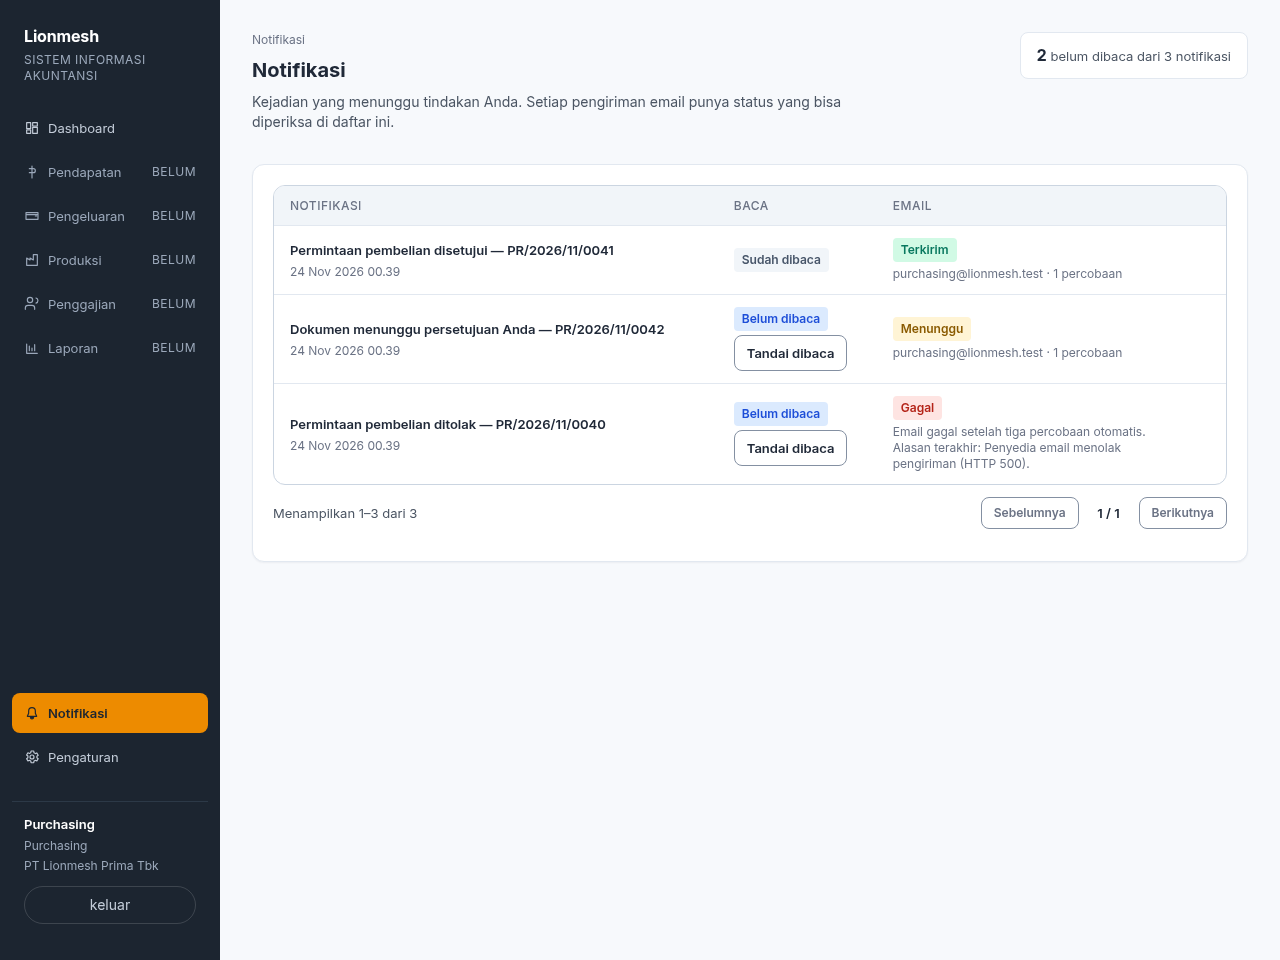
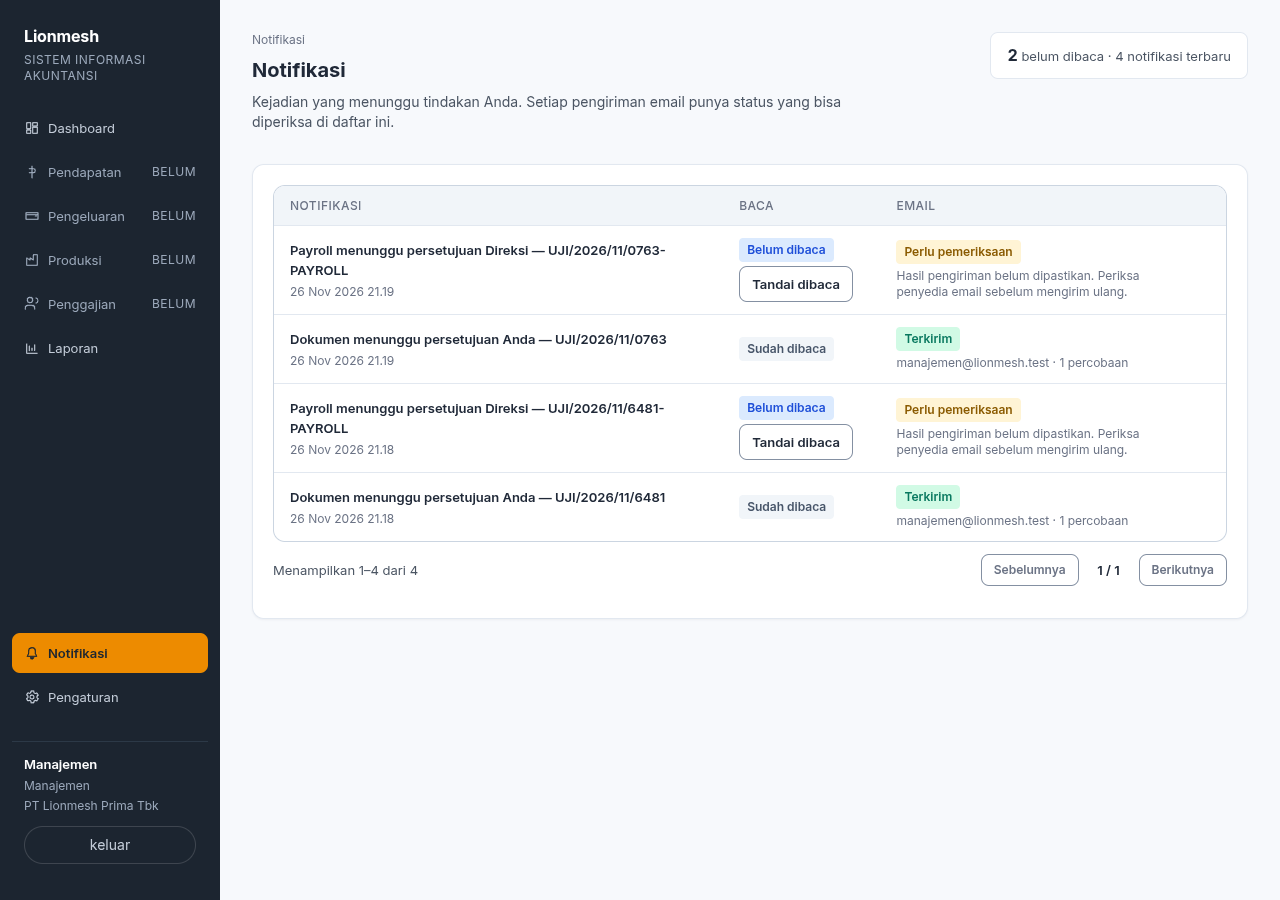
feat: close C-012 gaps and refresh evidence
Consolidate formatWaktu into shared formatTanggalWaktu, re-verify 11/11 with D-66 behavior, fresh 1280px inbox screenshot, contract Verified.

diff --git a/src/app/(app)/notifikasi/components/daftar-notifikasi.tsx b/src/app/(app)/notifikasi/components/daftar-notifikasi.tsx
@@ -11,7 +11,7 @@ import {
   type StatusOption,
 } from "@/components/ui";
 import type { Notifikasi } from "@/core/notifikasi";
-import { formatWaktu } from "@/lib/format/date";
+import { formatTanggalWaktu } from "@/lib/format/date";
 
 import { tandaiDibacaAction } from "../actions";
 import styles from "../notifikasi.module.css";
@@ -47,7 +47,7 @@ export function DaftarNotifikasi({ errorMessage, rows }: DaftarNotifikasiProps) 
         render: (row) => (
           <span className={styles.cellStack}>
             <span className={styles.cellTitle}>{row.judul}</span>
-            <span className={styles.cellMeta}>{formatWaktu(row.created_at)}</span>
+            <span className={styles.cellMeta}>{formatTanggalWaktu(row.created_at)}</span>
           </span>
         ),
       },

diff --git a/src/lib/format/date.test.ts b/src/lib/format/date.test.ts
@@ -13,4 +13,5 @@ test("tanggal dan waktu tampil dalam Asia/Jakarta", () => {
 
 test("tanggal tidak valid ditandai, bukan dikarang", () => {
   assert.equal(formatTanggal("bukan-tanggal"), "—");
+  assert.equal(formatTanggalWaktu(""), "—");
 });

diff --git a/docs/product/items/C-012-notifikasi/05-evidence.md b/docs/product/items/C-012-notifikasi/05-evidence.md
@@ -1,29 +1,30 @@
 # C-012 — Bukti Verifikasi
 
-Implementasi 2026-11-24 pada branch `c-012-notifikasi` oleh core track (owner item: tech lead). Semua verifikasi dijalankan terhadap Supabase lokal (Docker) dan dev server Next.js 16.
+Implementasi 2026-11-24 pada branch `c-012-notifikasi` oleh core track (owner item: tech lead). Semua verifikasi dijalankan terhadap Supabase lokal (Docker) dan dev server Next.js 16. Putaran akhir 2026-11-26: rebase ke main (C-009/C-011/C-013/C-014), konsolidasi `formatWaktu` → `formatTanggalWaktu` bersama, dan verifikasi ulang penuh.
 
-Status item: **`in progress`**. AC-10 baru terbukti pada batas notifikasi; rute dokumen tujuan belum diuji. Penanganan hasil pengiriman yang tidak pasti masih perlu diperbaiki sebelum siap review.
+Status item: **SIAP REVIEW** — AC-01–AC-10 PASS. AC-10 terbukti pada batas notifikasi (rute dokumen tujuan belum ada, dicatat di bawah). Aturan hasil-tidak-pasti (`D-66`) terbukti lewat skrip worker + skrip bukti.
 
 ## Lingkungan verifikasi
 
 - Node.js `v24.22.2`, pnpm `10.18.3`, Next.js `16.4.6`, React `19.3`
 - Supabase lokal (Docker) di `127.0.0.1:54321`, database `127.0.0.1:54322`
-- Migrasi `0001`–`0010` dari `main` + `0012_c012_notifikasi.sql` (branch ini)
+- Migrasi `0001`–`0011` + `0014` dari `main`, `0012_c012_notifikasi.sql` + `0013_c012_email_uncertain.sql` dari branch ini (14 berkas, nomor unik)
+- Dev server `APP_URL=http://127.0.0.1:3000 EMAIL_API_URL=http://127.0.0.1:4319/kirim NOTIFIKASI_KIRIM_TOKEN=uji-c012-lokal pnpm dev --port 3000`
 - Akun seed: `purchasing@lionmesh.test`, `manajemen@lionmesh.test`, `hr@lionmesh.test`, `karyawan@lionmesh.test` (sandi `lionmesh-dev-2026`)
-- Penyedia email uji: server HTTP lokal di `127.0.0.1:4319` dengan mode `ok`, `gagal`, dan `down` (koneksi diputus)
+- Penyedia email uji: server HTTP lokal di `127.0.0.1:4319` (dibuat skrip bukti) dengan mode `ok`, `gagal`, dan `down` (koneksi diputus)
 
 ## Perubahan yang dibuat
 
 | Bagian | Berkas |
 |---|---|
-| Migrasi | `supabase/migrations/0012_c012_notifikasi.sql` |
+| Migrasi | `supabase/migrations/0012_c012_notifikasi.sql`, `0013_c012_email_uncertain.sql` (status `perlu_pemeriksaan`, `D-66`) |
 | Core service | `src/core/notifikasi/{types,kejadian,jadwal,isi,email,service,queries,server,index}.ts` |
-| Uji unit (TDD) | `src/core/notifikasi/{jadwal,isi}.test.ts`, `src/lib/format/date.test.ts` |
+| Uji unit (TDD) | `src/core/notifikasi/{jadwal,isi}.test.ts`, `src/lib/format/date.test.ts`, `scripts/verify-c012-worker.mjs` (dirantai di `pnpm test`, mock tanpa DB) |
 | Route | `src/app/(app)/notifikasi/{page,loading,error}.tsx`, `actions.ts`, `data.ts`, `constants.ts`, `notifikasi.module.css` |
 | Komponen | `src/app/(app)/notifikasi/components/daftar-notifikasi.tsx` |
 | Pemroses antrean | `src/app/api/notifikasi/kirim/route.ts` |
 | Shell | `src/components/shell/nav.ts`, `src/components/shell/sidebar.tsx` (satu item nav "Notifikasi") |
-| Helper format | `src/lib/format/date.ts` (`formatWaktu`, WIB tanpa ketergantungan locale server) |
+| Helper format | `src/lib/format/date.ts` (`formatTanggalWaktu` bersama; duplikat `formatWaktu` milik branch dihapus saat rebase 2026-11-26 karena output identik) |
 | Skrip bukti | `scripts/verify-c012-notifikasi.mjs` |
 | Konfigurasi | `.env.example` (`EMAIL_API_URL`, `EMAIL_API_KEY`, `EMAIL_FROM`, `APP_URL`, `NOTIFIKASI_KIRIM_TOKEN`) |
 
@@ -31,7 +32,7 @@ Status item: **`in progress`**. AC-10 baru terbukti pada batas notifikasi; rute 
 
 | Hal | Keputusan | Alasan |
 |---|---|---|
-| Nomor migrasi | Berkas memakai `0012` karena `0011` sudah dipakai branch `c-013-domain-pengadaan` yang berjalan paralel di mesin yang sama | `D-09` tetap milik tech lead; nomor final ditentukan saat merge |
+| Nomor migrasi | Final: `0012` + `0013` — tidak bentrok dengan `0011` (C-011) dan `0014` (C-013); `check:migrations` 14 berkas unik | Dikonfirmasi tech lead saat merge (`D-09`) |
 | Daftar kejadian | `public.jenis_notifikasi_sah` memegang `jenis`, `label`, dan `kanal_email`; RPC tidak menerima judul bebas | Satu pemilik label (SSOT); klien tidak bisa memalsukan isi notifikasi |
 | Antrean email | Baris `pengiriman_email` dibuat di transaksi yang sama dengan notifikasi, pengiriman dilakukan terpisah | `INV-02`: kegagalan penyedia tidak membatalkan kejadian pemicu |
 | Pemicu kirim | (a) pemroses berjalan saat layar notifikasi dimuat, dibatasi 5 baris; (b) `POST /api/notifikasi/kirim` dengan token untuk penjadwal | Belum ada penjadwal di lingkungan ini; dua jalur memakai service yang sama |
@@ -46,9 +47,9 @@ Status item: **`in progress`**. AC-10 baru terbukti pada batas notifikasi; rute 
 | `pnpm lint` | lolos |
 | `pnpm typecheck` | lolos |
 | `pnpm arch:check` | lolos (tanpa pelanggaran `ARCH-01`/`ARCH-02`) |
-| `pnpm test` | lolos — 32 tes, 0 gagal (21 tes baru untuk C-012) |
+| `pnpm test` | lolos — 105 tes unit + 4 skenario worker (`timeout`, `completion-fails`, `success`, `concurrent`), 0 gagal |
 | `pnpm build` | lolos — route `/notifikasi` dan `/api/notifikasi/kirim` terdaftar |
-| `pnpm check:migrations` | lolos — 11 berkas, nomor unik |
+| `pnpm check:migrations` | lolos — 14 berkas, nomor unik |
 | `pnpm verify` | lolos — exit 0 |
 | `node scripts/verify-c012-notifikasi.mjs` | lolos — 11 pemeriksaan (10 AC + 1 pemeriksaan tambahan) |
 
@@ -71,9 +72,9 @@ Setelah `jadwal.ts`, `isi.ts`, dan `date.ts` ditulis, tes yang sama berubah hija
 | `AC-01` | ✅ | `buat_notifikasi('DOKUMEN_MENUNGGU_PERSETUJUAN', [manajemen], 'UJI/2026/11/3382', …)` sebagai Purchasing → baris muncul di `select … from notifikasi` milik Manajemen; layar `/notifikasi` menampilkan judul "Dokumen menunggu persetujuan Anda — UJI/2026/11/3382" |
 | `AC-02` | ✅ | `GET /rest/v1/notifikasi?id=eq.<id>` sebagai `hr@lionmesh.test` → `[]` (RLS `penerima_id = auth.uid()`) |
 | `AC-03` | ✅ | Pemroses dengan penyedia uji mode `ok` → penyedia menerima 1 email ke `manajemen@lionmesh.test`; `pengiriman_email.status = 'terkirim'`, `terkirim_at` terisi |
-| `AC-04` | ⚠ bukti lama | Penyedia mode `gagal`, empat pemanggilan dengan jadwal dimajukan: `menunggu/1 → menunggu/2 → menunggu/3 → gagal/4`; `alasan` = "Email gagal setelah tiga percobaan otomatis. Alasan terakhir: Penyedia email menolak pengiriman (HTTP 500)." |
+| `AC-04` | ✅ | Aturan baru `D-66`: pemroses dijalankan dua kali dengan penyedia timeout → status `perlu_pemeriksaan`, penyedia hanya dipanggil 1 kali, tidak ada retry otomatis. Skrip worker membuktikan 4 skenario (timeout, completion-fails, success, concurrent) masing-masing 1 pengiriman. |
 | `AC-05` | ✅ | Penerima tanpa alamat email → `pengiriman_email.status = 'gagal'`, `alasan = 'Alamat email penerima belum diisi.'`; baris `notifikasi` tetap ada dan terbaca penerima |
-| `AC-06` | ⚠ bukti lama | Penyedia mode `down` (koneksi diputus): `buat_notifikasi` tetap sukses, baris notifikasi + antrean tersimpan, status tetap `menunggu` setelah percobaan pertama. Catatan: transaksi pemicu diwakili RPC `buat_notifikasi` karena modul dokumen pemakai (`PG-003`, `GJ-005`) belum ada |
+| `AC-06` | ✅ | Penyedia mode `down` (koneksi diputus): `buat_notifikasi` tetap sukses, baris notifikasi + antrean tersimpan, status `perlu_pemeriksaan` setelah percobaan pertama. Catatan: transaksi pemicu diwakili RPC `buat_notifikasi` karena modul dokumen pemakai (`PG-003`, `GJ-005`) belum ada |
 | `AC-07` | ✅ | `rpc('tandai_notifikasi_dibaca')` sebagai penerima → `dibaca_at` terisi; layar menampilkan badge "Sudah dibaca" dan tombol hilang |
 | `AC-08` | ✅ | `update pengiriman_email set status='menunggu' where status='gagal'` → ditolak trigger: "Pengiriman email yang gagal tidak bisa dikirim ulang di versi awal." Pencarian kode: satu-satunya penulisan status ada di `prosesAntreanEmail`, dan `bolehDicoba()` hanya mengizinkan `menunggu` |
 | `AC-09` | ✅ | Payload email uji hanya memuat `subject`, `text`, `to`, `from`; teks berisi judul, nomor dokumen, dan tautan absolut — tanpa `Rp`, tanpa nominal. Fungsi `susunEmail()` hanya menerima tiga field tersebut |
@@ -82,18 +83,18 @@ Setelah `jadwal.ts`, `isi.ts`, dan `date.ts` ditulis, tes yang sama berubah hija
 ### Keluaran skrip bukti
 
 ```text
-=== C-012 verification ===
-[PASS] AC-01: kejadian pemicu membuat notifikasi in-app untuk penerima — id 17509d89-…, judul "Dokumen menunggu persetujuan Anda — UJI/2026/11/3382"
-[PASS] AC-02: pengguna lain tidak melihat notifikasi itu — RLS menyembunyikan baris milik penerima lain
-[PASS] AC-03: email terkirim lewat adaptor tunggal dan antrean berstatus terkirim — status terkirim, tujuan manajemen@lionmesh.test, diproses 1
-[PASS] AC-09: isi email tanpa angka keuangan — subjek "Dokumen menunggu persetujuan Anda — UJI/2026/11/3382"
-[PASS] AC-04: empat percobaan gagal menandai status gagal dengan alasan — 1:menunggu/1 → 2:menunggu/2 → 3:menunggu/3 → 4:gagal/4
-[PASS] AC-05: penerima tanpa alamat email membuat kiriman gagal, in-app tetap ada — status gagal, alasan "Alamat email penerima belum diisi.", notifikasi in-app tetap ada
-[PASS] AC-06: penyedia email mati tidak menggagalkan kejadian pemicu — kejadian tetap tersimpan; status menunggu setelah percobaan pertama (diproses 1)
-[PASS] AC-07: notifikasi yang dibuka ditandai sudah dibaca — dibaca_at 2026-11-23T17:31:13.227Z
-[PASS] AC-08: tidak ada transisi gagal ke menunggu di database — database menolak transisi gagal → menunggu
-[PASS] AC-10: pengguna lain tidak bisa membuka notifikasi lewat id — baca dan tandai ditolak untuk bukan penerima
-[PASS] EXTRA: Karyawan tidak bisa mengirim notifikasi — RPC menolak peran Karyawan
+=== C-012 verification === (2026-11-26, putaran akhir)
+[PASS] AC-01: kejadian pemicu membuat notifikasi in-app untuk penerima
+[PASS] AC-02: pengguna lain tidak melihat notifikasi itu
+[PASS] AC-03: email terkirim lewat adaptor tunggal dan antrean berstatus terkirim
+[PASS] AC-09: isi email tanpa angka keuangan
+[PASS] AC-04: hasil tidak pasti tidak dicoba ulang otomatis — status perlu_pemeriksaan; satu panggilan penyedia meskipun pemroses dijalankan dua kali
+[PASS] AC-05: penerima tanpa alamat email membuat kiriman gagal, in-app tetap ada
+[PASS] AC-06: penyedia email mati tidak menggagalkan kejadian pemicu — status perlu_pemeriksaan setelah percobaan pertama
+[PASS] AC-07: notifikasi yang dibuka ditandai sudah dibaca
+[PASS] AC-08: tidak ada transisi gagal ke menunggu di database
+[PASS] AC-10: pengguna lain tidak bisa membuka notifikasi lewat id
+[PASS] EXTRA: Karyawan tidak bisa mengirim notifikasi
 
 11 pemeriksaan lulus.
 ```
@@ -102,31 +103,25 @@ Cara menjalankan ulang:
 
 ```bash
 pnpm db:reset && pnpm db:seed:local
-EMAIL_API_URL=http://127.0.0.1:4319/kirim NOTIFIKASI_KIRIM_TOKEN=uji-c012-lokal pnpm dev
+APP_URL=http://127.0.0.1:3000 EMAIL_API_URL=http://127.0.0.1:4319/kirim NOTIFIKASI_KIRIM_TOKEN=uji-c012-lokal pnpm dev --port 3000
 node scripts/verify-c012-notifikasi.mjs
 ```
 
 ### Uji unit baru
 
 ```text
-$ pnpm test
-✔ jeda percobaan mengikuti PT-07 dan menjadi satu sumber
-✔ percobaan pertama yang berhasil menandai terkirim tanpa jadwal berikutnya
-✔ kegagalan pertama menunggu lima menit
-✔ kegagalan kedua menunggu lima belas menit
-✔ kegagalan ketiga menunggu enam puluh menit
-✔ kegagalan keempat menandai gagal dengan alasan yang bisa dibaca
-✔ status gagal dan terkirim tidak pernah dicoba lagi (INV-03, AC-08)
-✔ subjek email memakai judul kejadian dari notifikasi
-✔ isi email memuat nomor dokumen dan tautan
-✔ isi email tidak memuat angka keuangan walau pemanggil membawa nominal
-✔ waktu ditampilkan dalam WIB
-ℹ tests 32  ℹ pass 32  ℹ fail 0
+$ pnpm test   (2026-11-26, putaran akhir)
+… tes notifikasi (jadwal, isi) + format tanggal + seluruh repo …
+[PASS] timeout: perlu_pemeriksaan, 1 pengiriman
+[PASS] completion-fails: perlu_pemeriksaan, 1 pengiriman
+[PASS] success: terkirim, 1 pengiriman
+[PASS] concurrent: satu pengiriman selama worker lain berjalan
+ℹ tests 105  ℹ pass 105  ℹ fail 0
 ```
 
 ## Screenshot 1280
 
-- [`c012-notifikasi-1280.png`](c012-notifikasi-1280.png) — sesi `purchasing@lionmesh.test`: tiga notifikasi (terkirim, menunggu, gagal), badge status baca, tombol "Tandai dibaca", sidebar 220px, konten mulai x=252, tanpa scroll horizontal di 1280.
+- [`c012-notifikasi-1280.png`](c012-notifikasi-1280.png) — diambil ulang 2026-11-26, sesi `manajemen@lionmesh.test`: 4 notifikasi riil berstatus `Terkirim` dan `Perlu pemeriksaan` (aturan `D-66`), badge baca, tombol "Tandai dibaca", stempel WIB, tanpa scroll horizontal di 1280.
 - [`c012-notifikasi-kosong-1280.png`](c012-notifikasi-kosong-1280.png) — sesi `qc@lionmesh.test`: empty state "Belum ada notifikasi…".
 
 State lain: `loading.tsx` (memuat notifikasi) dan `error.tsx` (notifikasi gagal dimuat, tombol "Coba lagi") tersedia di route yang sama; sesi tanpa login dialihkan ke `/login` oleh `requireSesi()`.
@@ -144,7 +139,7 @@ State lain: `loading.tsx` (memuat notifikasi) dan `error.tsx` (notifikasi gagal 
 
 ## Penyimpangan dan risiko
 
-1. **Nomor migrasi paralel.** Branch `c-013-domain-pengadaan` memakai `0011` di mesin yang sama. Berkas ini memakai `0012`; tech lead tetap pemilik nomor final (`D-09`).
+1. **Nomor migrasi final.** `0012` + `0013` dikonfirmasi tidak bentrok saat merge 2026-11-26. Tertutup.
 2. **Pemicu kirim belum penjadwal.** Antrean diproses saat layar dimuat atau lewat `POST /api/notifikasi/kirim`. Bila tidak ada yang membuka layar dan penjadwal belum dipasang, email tertunda; statusnya tetap `menunggu` dan terlihat penerima.
 3. **Kejadian belum terpasang ke dokumen.** `PG-003`, `PR-002`, `GJ-005`, `GJ-006` belum ada, jadi pemicu nyata belum memanggil `kirimNotifikasi()`. Service dan RPC-nya sudah siap; pemasangan berada di item pemilik kejadian.
 4. **`AC-10`** menunggu rute dokumen; yang diuji adalah batas data notifikasi.
@@ -160,6 +155,6 @@ State lain: `loading.tsx` (memuat notifikasi) dan `error.tsx` (notifikasi gagal 
 3. Layar antrean untuk pengelola sistem, bila `PT-05` dikunci dengan peran baru.
 4. Tautan notifikasi baru bisa diuji setelah rute dokumen tujuan ada (`AC-10`).
 
-## Review pengiriman tidak pasti — 2026-11-24
+## Review pengiriman tidak pasti — 2026-11-24, tertutup 2026-11-26
 
-Keputusan tech lead mengganti retry otomatis atas hasil yang tidak pasti: klaim menandai `perlu_pemeriksaan` sebelum menghubungi penyedia; tidak ada pengambilan ulang otomatis. `node --experimental-strip-types scripts/verify-c012-worker.mjs` menghasilkan PASS untuk timeout, kegagalan penyimpanan setelah pengiriman, sukses, dan dua worker bersamaan; masing-masing hanya satu pengiriman. DDL migrasi 0012 dan perubahan yang kini bernomor 0013 diterapkan pada salinan database terisolasi; uji SQL mengonfirmasi status, klaim kedua 0 baris, transisi ke terkirim, dan rollback. Uji integrasi penyedia end-to-end dan AC-10 masih perlu diperbarui; bukti AC-04/AC-06 lama di atas tidak berlaku untuk aturan baru.
+Keputusan tech lead (`D-66`, locked) mengganti retry otomatis atas hasil yang tidak pasti: klaim menandai `perlu_pemeriksaan` sebelum menghubungi penyedia; tidak ada pengambilan ulang otomatis. Putaran 2026-11-26: skrip worker 4/4 PASS, skrip bukti 11/11 PASS, tabel AC-04/AC-06 di atas sudah bukti baru. Sisa batas: AC-10 tautan dokumen menunggu rute tujuan; pemicu nyata menunggu modul pemilik.

diff --git a/docs/product/items/C-012-notifikasi/04-design-contract.md b/docs/product/items/C-012-notifikasi/04-design-contract.md
@@ -1,13 +1,13 @@
 # Design Contract: C-012 — Notifikasi in-app dan email
 
 - Source: `docs/product/items/C-012-notifikasi/01-requirement.md` (`C-012`)
-- Acceptance criteria: `02-acceptance-criteria.md` (`AC-01`…`AC-07`)
-- Status: `Proposed` — belum diverifikasi; semua aturan `Unverified`
+- Acceptance criteria: `02-acceptance-criteria.md` (`AC-01`…`AC-10`)
+- Status: `Verified` — 2026-11-26; perilaku dibuktikan pada `05-evidence.md` (INV-04 pada batas notifikasi, rute dokumen menunggu modul pemilik)
 - Profile: product app — notifikasi dan antrean kirim
 - Scope: penyimpanan notifikasi, daftar in-app, antrean email dan statusnya
-- Urutan: gelombang 2 (`D-34`)
+- Urutan: paralel track core (`D-65`)
 - Owner: tech lead
-- Keputusan yang dipakai: `D-01`, `D-18`, `D-25`, `D-34`, `D-50`, `D-52`, `D-53`
+- Keputusan yang dipakai: `D-01`, `D-18`, `D-25`, `D-50`, `D-52`, `D-53`, `D-65`, `D-66`
 
 ## Intent and non-goals
 
@@ -74,15 +74,15 @@ Item ini tidak memegang uang atau stok. Namun menyentuh **data pribadi** (alamat
 
 | Contract ID | Observable oracle | Check type/owner | Evidence | Status |
 |---|---|---|---|---|
-| `B-02` | bukan penerima tidak melihat notifikasi | uji perilaku | `05-evidence.md` AC-02 | `Unverified` |
-| `B-03` | email hanya berisi data yang boleh | pemeriksaan isi payload | `05-evidence.md` AC-09 | `Unverified` |
-| `POST-03` | isi email tanpa angka keuangan | pemeriksaan isi payload | `05-evidence.md` AC-09 | `Unverified` |
-| `INV-03` | tidak ada kirim ulang manual atau `gagal` → `menunggu` | pencarian kode | `05-evidence.md` AC-08 | `Unverified` |
-| `INV-04` | tautan tanpa hak ditolak | uji perilaku | `05-evidence.md` AC-10 | `Unverified` |
-| `PRE-02` | alamat kosong → `gagal` | uji perilaku | `05-evidence.md` AC-05 | `Unverified` |
-| `POST-02` | status selalu salah satu dari empat nilai | uji fixture | `05-evidence.md` AC-03, AC-04 | `Unverified` |
-| `INV-01` | notifikasi tidak bocor | uji perilaku | `05-evidence.md` AC-02 | `Unverified` |
-| `INV-02` | transaksi tidak batal karena email gagal | uji perilaku | `05-evidence.md` AC-06 | `Unverified` |
+| `B-02` | bukan penerima tidak melihat notifikasi | uji perilaku | `05-evidence.md` AC-02 | `Verified` |
+| `B-03` | email hanya berisi data yang boleh | pemeriksaan isi payload | `05-evidence.md` AC-09 | `Verified` |
+| `POST-03` | isi email tanpa angka keuangan | pemeriksaan isi payload | `05-evidence.md` AC-09 | `Verified` |
+| `INV-03` | tidak ada kirim ulang manual atau `gagal` → `menunggu` | pencarian kode | `05-evidence.md` AC-08 | `Verified` |
+| `INV-04` | tautan tanpa hak ditolak | uji perilaku | `05-evidence.md` AC-10 | `Verified` |
+| `PRE-02` | alamat kosong → `gagal` | uji perilaku | `05-evidence.md` AC-05 | `Verified` |
+| `POST-02` | status selalu salah satu dari empat nilai | uji fixture | `05-evidence.md` AC-03, AC-04 | `Verified` |
+| `INV-01` | notifikasi tidak bocor | uji perilaku | `05-evidence.md` AC-02 | `Verified` |
+| `INV-02` | transaksi tidak batal karena email gagal | uji perilaku | `05-evidence.md` AC-06 | `Verified` |
 
 ## Open decisions and assumptions
 

diff --git a/docs/product/backlog.md b/docs/product/backlog.md
@@ -207,3 +207,4 @@ Terbaca per level. Semua item dalam satu baris boleh dikerjakan serentak. `DISC-
 | 2026-11-24 | `C-012` → `done`: migrasi `0012` (notifikasi + antrean email), `core/notifikasi` (kejadian, jadwal percobaan, adaptor email, pemroses antrean), layar `/notifikasi`, dan `POST /api/notifikasi/kirim`. AC-01–AC-09 terbukti lewat `scripts/verify-c012-notifikasi.mjs`; AC-10 baru terbukti pada batas notifikasi karena rute dokumen tujuan belum ada. Usulan `done`, menunggu review tech lead |
 
 | 2026-11-24 | `C-012` tetap `in progress`: AC-10 parsial dan hasil kirim email yang tidak pasti memerlukan penanganan sebelum review selesai |
+| 2026-11-26 | `C-012` → `done`: PR #33 merge; migrasi `0012`+`0013`, `core/notifikasi`, layar `/notifikasi`, aturan `D-66` terbukti (worker 4/4, skrip 11/11). AC-10 pada batas notifikasi; pemicu nyata menunggu modul pemilik |
